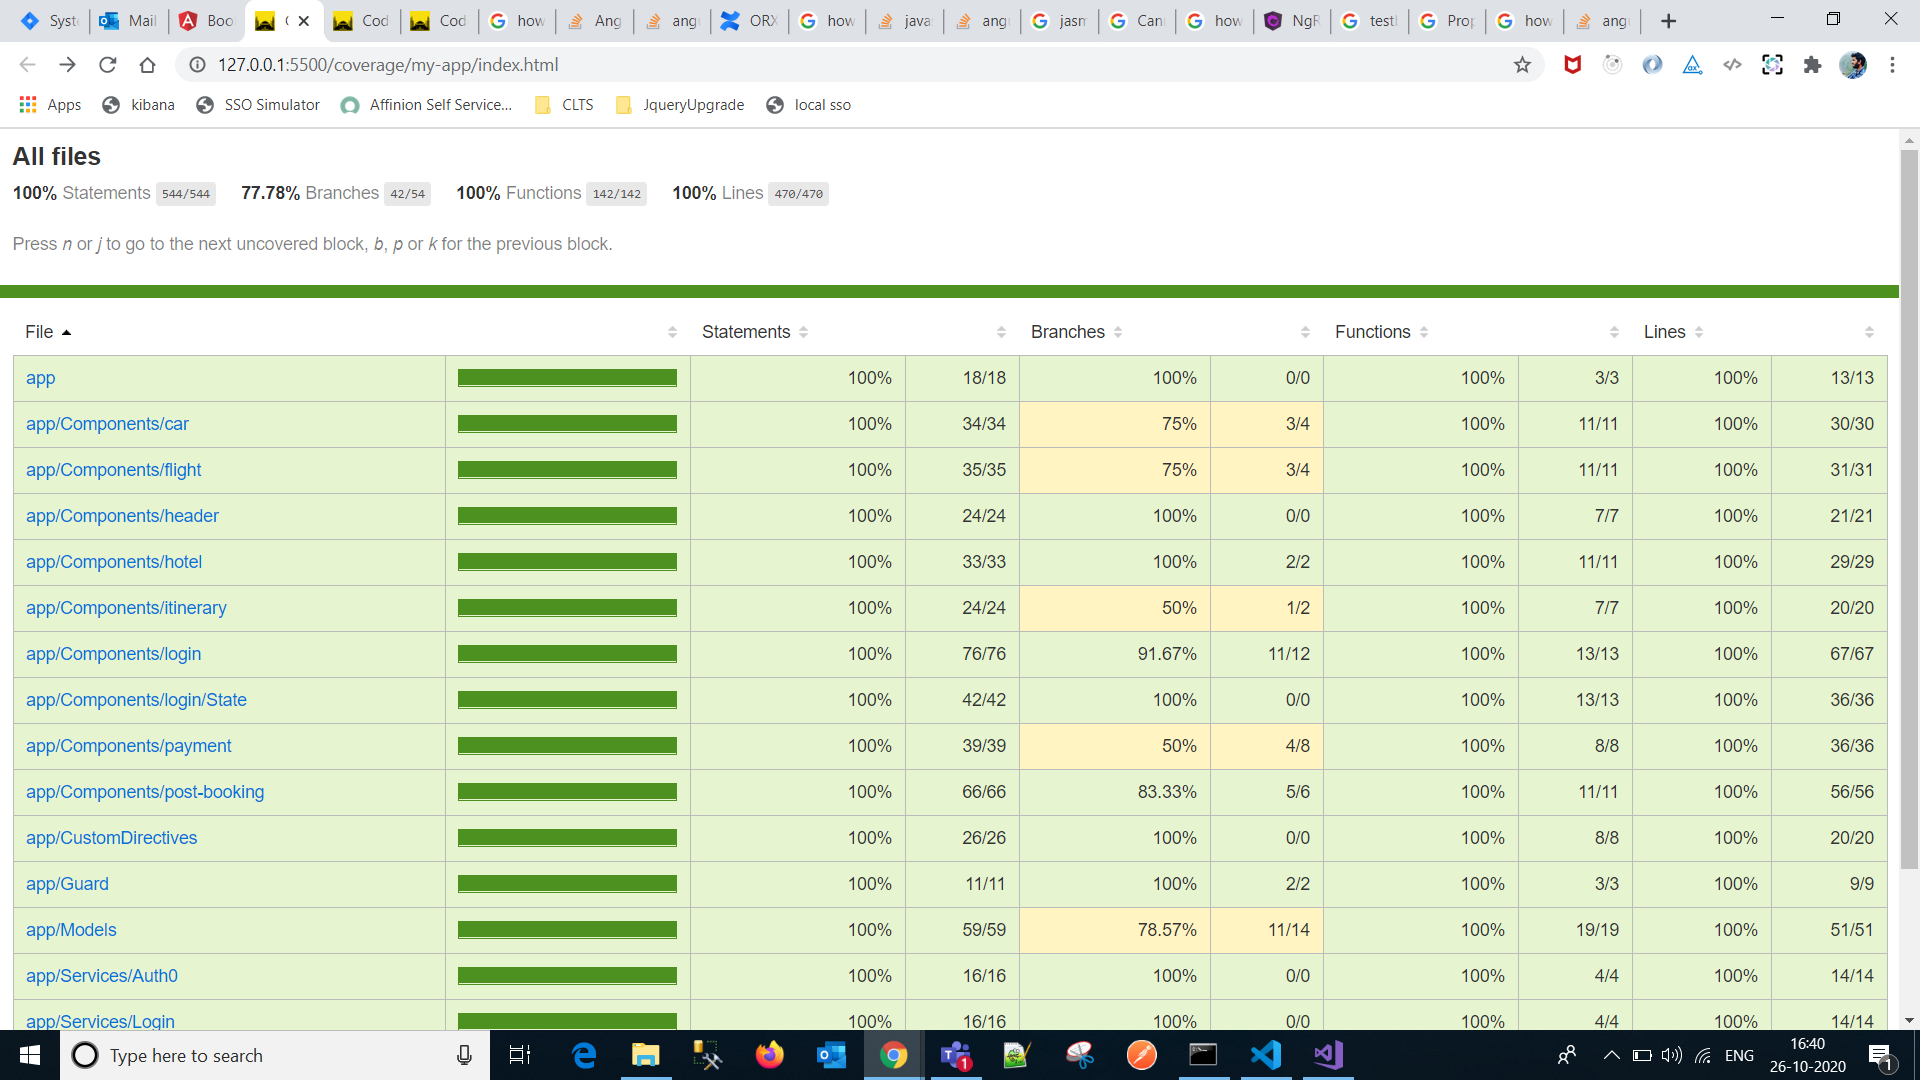
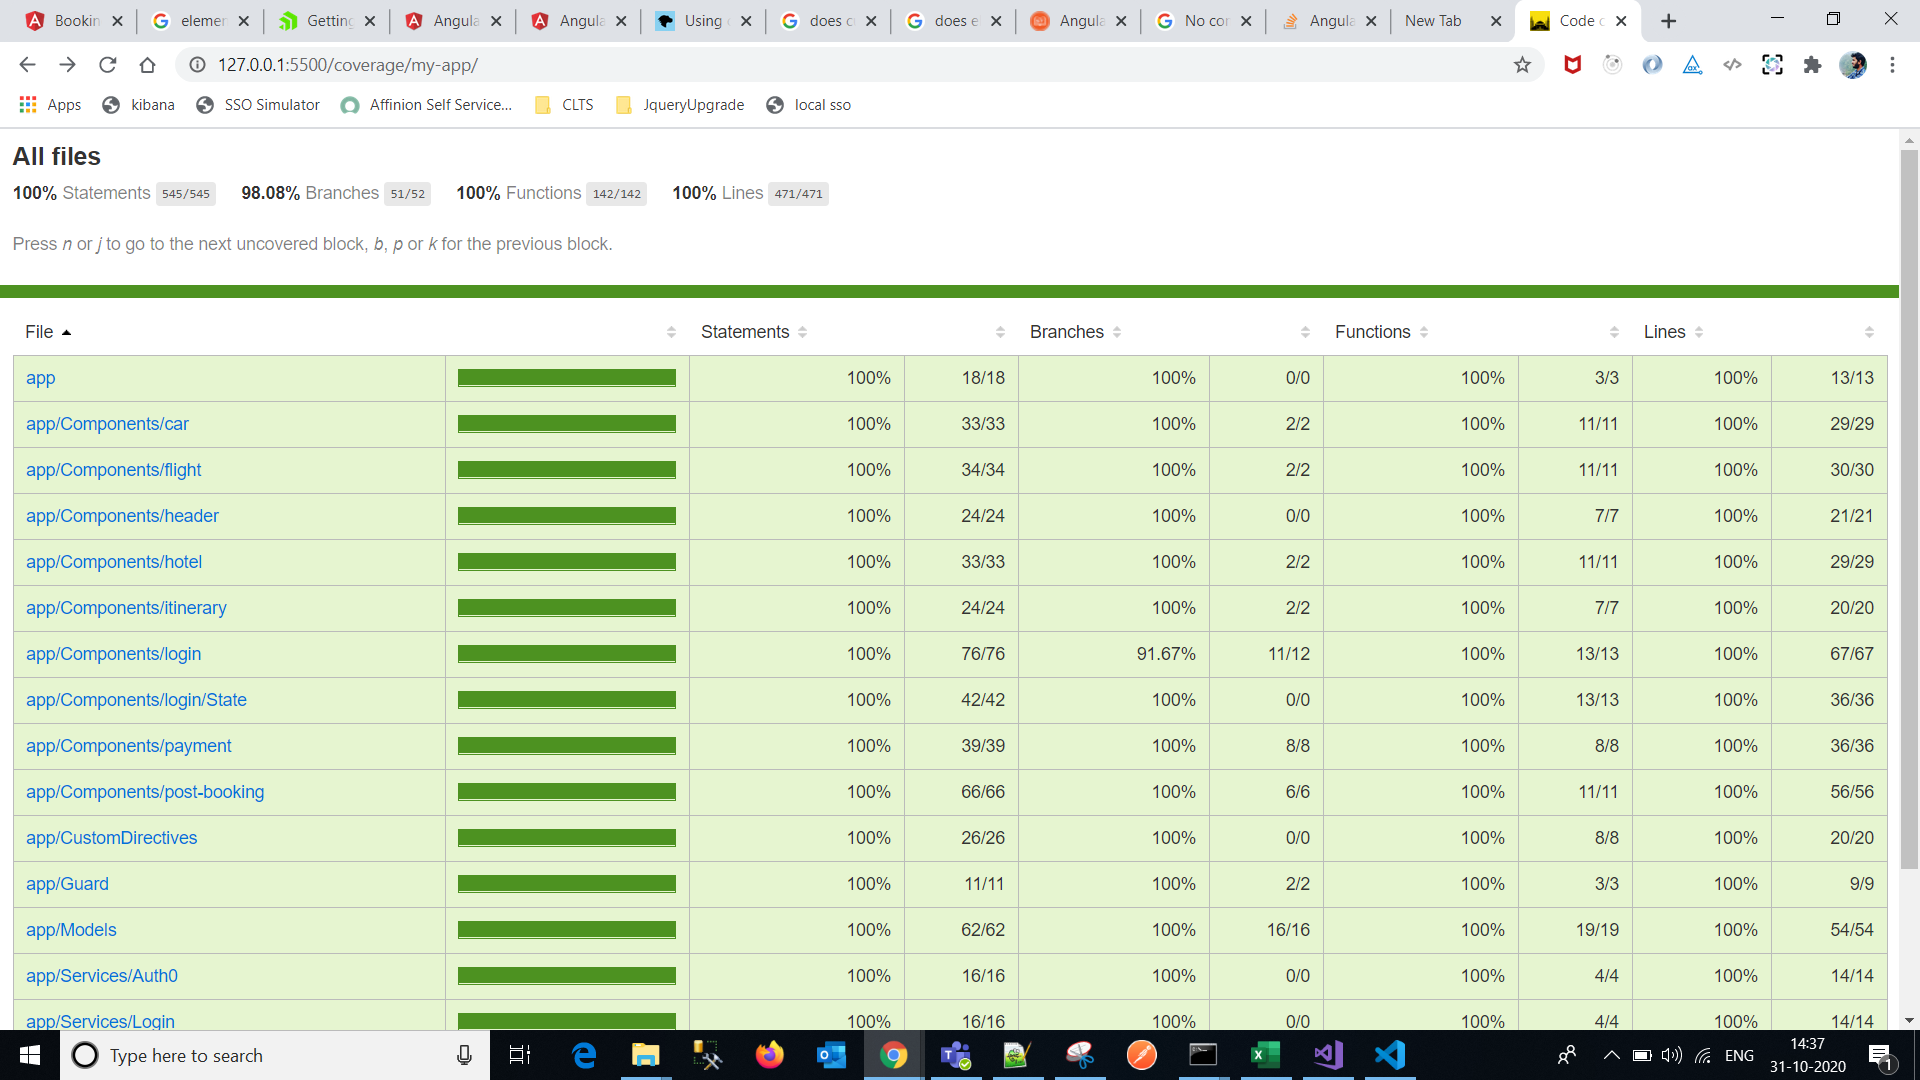
header custom element and branch coverage

diff --git a/BookingManager/src/app/Components/post-booking/post-booking.component.spec.ts b/BookingManager/src/app/Components/post-booking/post-booking.component.spec.ts
@@ -27,7 +27,7 @@ import { LoginEffects } from './../login/State/Login.Effects';
 import { LoginService } from 'src/app/Services/Login/login.service';
 import { AuthenticateUsers } from 'src/app/Models/Users';
 import { Profile } from 'src/app/Models/UserProfile';
-import {  Injectable } from '@angular/core';
+import {  CUSTOM_ELEMENTS_SCHEMA, Injectable } from '@angular/core';
 import {  inject } from '@angular/core/testing';
 import { AuthGuard } from 'src/app/Guard/auth.guard';
 import {Directive, Input, ElementRef, Renderer2, HostListener } from '@angular/core';
@@ -70,7 +70,8 @@ describe('PostBookingComponent', () => {
             
           }),
           EffectsModule.forRoot([LoginEffects])],
-        providers: [LoginService,{provide: APP_BASE_HREF, useValue : '/' }]
+        providers: [LoginService,{provide: APP_BASE_HREF, useValue : '/' }],
+        schemas:[CUSTOM_ELEMENTS_SCHEMA]
       })
       .compileComponents();
     }));
@@ -95,9 +96,9 @@ describe('PostBookingComponent', () => {
         localStorage.setItem('TokenManager','fool');
         component.activatedRoute.snapshot.fragment=null;
         component.ngOnInit();
-        const element = fixture.nativeElement;
-      
-        expect(localStorage.getItem('TokenManager')).toEqual('fool');
+        localStorage.setItem('TokenManager','bnaveen');
+        component.ngOnInit();
+        expect(localStorage.getItem('TokenManager')).toEqual('bnaveen');
     });
     it('should check view itineray', () => {
         const element = fixture.nativeElement;
@@ -111,11 +112,16 @@ describe('PostBookingComponent', () => {
       const element = fixture.nativeElement;
       var profile=new Profile();
       profile.email="bnaveen@tavisca.com";
+      var profile2=new Profile();
+      profile2.email="vamsi@tavisca.com";
+      component.AllUsers.AddUser(profile2);
       component.AllUsers.AddUser(profile);
-      if(!component.AllUsers.CheckUser(profile.email)){
-        var _user=component.AllUsers.getUser(profile.email)
+      component.AllUsers.AddUser(profile);
+      if(!component.AllUsers.CheckUser("xxx@gmail.com")){
+        var _user=component.AllUsers.getUser("xxx@gmail.com");
+        _user=component.AllUsers.getUser(profile.email);
       }
-    expect(component.AllUsers.GetAllUsers().length).toEqual(1);
+    expect(component.AllUsers.GetAllUsers().length).toEqual(2);
   });
   it('should test unauthorized', () => {
     localStorage.clear();

diff --git a/BookingManager/src/app/Components/payment/payment.component.spec.ts b/BookingManager/src/app/Components/payment/payment.component.spec.ts
@@ -33,6 +33,7 @@ import { LoginReducer } from '../login/State/Login.Reducer';
 import { StoreDevtoolsModule } from '@ngrx/store-devtools';
 import { EffectsModule } from '@ngrx/effects';
 import { LoginEffects } from '../login/State/Login.Effects';
+import { CUSTOM_ELEMENTS_SCHEMA } from '@angular/core';
 
 
 
@@ -64,7 +65,8 @@ describe('PaymentComponent', () => {
             
           }),
           EffectsModule.forRoot([LoginEffects])],
-        providers: [{provide: APP_BASE_HREF, useValue : '/' }]
+        providers: [{provide: APP_BASE_HREF, useValue : '/' }],
+        schemas:[CUSTOM_ELEMENTS_SCHEMA]
       })
       .compileComponents();
     }));
@@ -72,6 +74,8 @@ describe('PaymentComponent', () => {
         localStorage.setItem('TokenManager','bnaveen@tavisca.com');
         fixture = TestBed.createComponent(PaymentComponent);
         component = fixture.componentInstance;
+        
+        
         component._Cancel="1";
         let _car =new Car;
         let _flight =new Flight;
@@ -109,7 +113,7 @@ describe('PaymentComponent', () => {
         
         var _trip = new Trip;
         _trip.id = "12345";
-        _trip.flight=_flight;
+        _trip.flight=null;
         _trip.hotel=[_hotel];
         _trip.car=[_car];
         _trip.bookedDate='01-10-2020';
@@ -117,6 +121,11 @@ describe('PaymentComponent', () => {
 
         component.trip=_trip;
         component.Trip=component.trip;
+        component.ngOnInit();
+        _trip.flight=_flight;
+        component.trip=_trip;
+        component.Trip=component.trip;
+
         
         fixture.detectChanges();
       });
@@ -130,4 +139,12 @@ describe('PaymentComponent', () => {
       
         expect(component.TotalAmount).toEqual('1400');
     });
+    it('should test confirm case', () => {
+      component.Trip.flight.status=FlightStatus.Confirm;
+      component.Trip.car[0].status=IndiviualStatus.Confirm;
+      component.Trip.hotel[0].status=IndiviualStatus.Confirm;
+      component.ngOnInit();
+
+      expect(component.TotalAmount).toEqual('1400');
+  });
 });

diff --git a/BookingManager/src/app/Components/itinerary/itneray.component.spec.ts b/BookingManager/src/app/Components/itinerary/itneray.component.spec.ts
@@ -39,6 +39,7 @@ import { LoginEffects } from '../login/State/Login.Effects';
 import { TripserviceService } from 'src/app/Services/TripService/tripservice.service';
 import { Observable, of, throwError } from 'rxjs';
 import { inject } from '@angular/core/testing';
+import { CUSTOM_ELEMENTS_SCHEMA } from '@angular/core';
 
 
 describe('ItineraryComponent', () => {
@@ -70,14 +71,15 @@ describe('ItineraryComponent', () => {
             
           }),
           EffectsModule.forRoot([LoginEffects])],
-        providers: [{provide: APP_BASE_HREF, useValue : '/' }]
+        providers: [{provide: APP_BASE_HREF, useValue : '/' }],
+        schemas:[CUSTOM_ELEMENTS_SCHEMA]
       })
       .compileComponents();
     }));
     beforeEach(inject([TripserviceService],s => {
         _tripService=s;
         localStorage.setItem('TokenManager','bnaveen@tavisca.com');
-        localStorage.setItem('TripId','12345');
+        
         fixture = TestBed.createComponent(ItineraryComponent);
         component = fixture.componentInstance;
         
@@ -131,6 +133,8 @@ describe('ItineraryComponent', () => {
         spyOn(_tripService,'GetAllTrips').and.returnValue(of(response));
         
         component.ngOnInit();
+        localStorage.setItem('TripId','12345');
+        component.ngOnInit();
         tick(1000);
         // jasmine.clock().tick(1000);
       expect(component.trip.flight.pnr).toEqual("PLMNJ");
@@ -138,7 +142,7 @@ describe('ItineraryComponent', () => {
     }));
     it('should test error while getting trips',()=>{
         component.NoTrip=false;
-        
+        component.ngOnInit();
         spyOn(_tripService,'GetAllTrips').and.returnValue((throwError({status: 404})));
         
         component.ngOnInit();

diff --git a/BookingManager/src/app/app.module.ts b/BookingManager/src/app/app.module.ts
@@ -1,5 +1,5 @@
 import { BrowserModule } from '@angular/platform-browser';
-import { NgModule } from '@angular/core';
+import { CUSTOM_ELEMENTS_SCHEMA, Injector, NgModule } from '@angular/core';
 import { FormsModule,ReactiveFormsModule } from '@angular/forms';
 import { AppRoutingModule } from './app-routing.module';
 import { AppComponent } from './app.component';
@@ -22,6 +22,8 @@ import { LoginReducer } from './Components/login/State/Login.Reducer';
 import {StoreDevtoolsModule} from '@ngrx/store-devtools';
 import { EffectsModule } from '@ngrx/effects';
 import { LoginEffects } from './Components/login/State/Login.Effects';
+import { createCustomElement } from '@angular/elements';
+import './Litelements/Footer-LitElement';
 @NgModule({
   declarations: [
     AppComponent,
@@ -49,6 +51,13 @@ import { LoginEffects } from './Components/login/State/Login.Effects';
     EffectsModule.forRoot([LoginEffects])
   ],
   providers: [AuthGuard],
-  bootstrap: [AppComponent]
+  bootstrap: [AppComponent],
+  entryComponents:[HeaderComponent],
+  schemas:[CUSTOM_ELEMENTS_SCHEMA]
 })
-export class AppModule { }
+export class AppModule { 
+  constructor(private injector: Injector) {
+    const customElement = createCustomElement(HeaderComponent, { injector });
+    customElements.define('app-header-element', customElement);
+  }
+}

diff --git a/BookingManager/src/app/Components/header/header.component.spec.ts b/BookingManager/src/app/Components/header/header.component.spec.ts
@@ -25,6 +25,8 @@ import { LoginReducer } from '../login/State/Login.Reducer';
 import { StoreDevtoolsModule } from '@ngrx/store-devtools';
 import { LoginEffects } from '../login/State/Login.Effects';
 import { EffectsModule } from '@ngrx/effects';
+import { CUSTOM_ELEMENTS_SCHEMA } from '@angular/core';
+import { Profile } from 'src/app/Models/UserProfile';
 describe('HeaderComponent', () => {
     let component: HeaderComponent;
     let fixture: ComponentFixture<HeaderComponent>;
@@ -53,7 +55,8 @@ describe('HeaderComponent', () => {
             
           }),
           EffectsModule.forRoot([LoginEffects])],
-        providers: [{provide: APP_BASE_HREF, useValue : '/' }]
+        providers: [{provide: APP_BASE_HREF, useValue : '/' }],
+        schemas:[CUSTOM_ELEMENTS_SCHEMA]
       })
       .compileComponents();
     }));
@@ -81,7 +84,11 @@ describe('HeaderComponent', () => {
         localStorage.setItem('Name','naveen');
         component.ngOnInit();
         component.home();
-        var x = component.userdata;
+        var _profile=new Profile();
+        _profile.email="bnaveen@tavisca.com";
+        component.UserData=_profile;
+        component.userdata=_profile;
+        component.UserData = component.userdata;
         expect(localStorage.getItem('Name')).toEqual("naveen");
         
     });

diff --git a/BookingManager/src/app/Components/login/login.component.spec.ts b/BookingManager/src/app/Components/login/login.component.spec.ts
@@ -29,6 +29,7 @@ import { LoginService } from 'src/app/Services/Login/login.service';
 import { of, throwError } from 'rxjs';
 import { Profile } from 'src/app/Models/UserProfile';
 import { AuthenticateUsers } from 'src/app/Models/Users';
+import { CUSTOM_ELEMENTS_SCHEMA } from '@angular/core';
 
 describe('LoginComponent', () => {
   let component: LoginComponent;
@@ -58,7 +59,8 @@ describe('LoginComponent', () => {
           
         }),
         EffectsModule.forRoot([LoginEffects])],
-      providers: [{provide: APP_BASE_HREF, useValue : '/' }]
+      providers: [{provide: APP_BASE_HREF, useValue : '/' }],
+      schemas:[CUSTOM_ELEMENTS_SCHEMA]
     })
     .compileComponents();
   }));
@@ -112,6 +114,10 @@ describe('LoginComponent', () => {
     let profiles= new Array<Profile>();
     var profile =new Profile();
     profile.email="bnaveen@tavisca.com";
+    
+    var profile2=new Profile();
+    profile2.email="vamsi@tavisca.com";
+    profiles.push(profile2);
     profiles.push(profile);
     spyOn(_loginService,'GetAllUsers').and.returnValue(of(profiles));
     var _authenticateUsersobject = new AuthenticateUsers(_loginService);

diff --git a/BookingManager/src/app/Models/Users.ts b/BookingManager/src/app/Models/Users.ts
@@ -22,21 +22,36 @@ export class AuthenticateUsers{
     AddUser(newuser:Profile){
         if(!this.CheckUser(newuser.email))
             this.Users.push(newuser);
+        else{
+
+        }
     }
     getUser(email:string):Profile{
         this.Users.forEach(user => {
             if(user.email == email){
                 return user;
             }
+            else{
+
+            }
         })
         return null;
     }
     CheckUser(email:string):boolean{
+        let temp=0;
         this.Users.forEach(user => {
             if(user.email.toLowerCase() == email.toLowerCase()){
-                return true;
+                temp=1;
+                
+            }
+            else{
+
             }
         })
+        if(temp==1){
+            return true;
+        }
+        else
         return false;
     }
     GetAllUsers():Array<Profile>{

diff --git a/BookingManager/src/app/app.component.spec.ts b/BookingManager/src/app/app.component.spec.ts
@@ -1,7 +1,7 @@
 import { async, ComponentFixture, TestBed } from '@angular/core/testing';
 
 import { BrowserModule } from '@angular/platform-browser';
-import { NgModule } from '@angular/core';
+import { CUSTOM_ELEMENTS_SCHEMA, NgModule } from '@angular/core';
 import { FormsModule,ReactiveFormsModule } from '@angular/forms';
 import { AppRoutingModule } from './app-routing.module';
 import { AppComponent } from './app.component';
@@ -41,6 +41,8 @@ describe('AppComponent', () => {
           HttpClientModule,NgxSpinnerModule,
           CommonModule,ReactiveFormsModule],
         providers: [{provide: APP_BASE_HREF, useValue : '/' }]
+        ,
+  schemas:[CUSTOM_ELEMENTS_SCHEMA]
       })
       .compileComponents();
     }));

diff --git a/BookingManager/src/app/Components/hotel/hotel.component.spec.ts b/BookingManager/src/app/Components/hotel/hotel.component.spec.ts
@@ -33,6 +33,7 @@ import { LoginEffects } from '../login/State/Login.Effects';
 import { EffectsModule } from '@ngrx/effects';
 import { TripserviceService } from 'src/app/Services/TripService/tripservice.service';
 import { of } from 'rxjs';
+import { CUSTOM_ELEMENTS_SCHEMA } from '@angular/core';
 
 describe('HotelComponent', () => {
     let component: HotelComponent;
@@ -62,7 +63,8 @@ describe('HotelComponent', () => {
             
           }),
           EffectsModule.forRoot([LoginEffects])],
-        providers: [{provide: APP_BASE_HREF, useValue : '/' }]
+        providers: [{provide: APP_BASE_HREF, useValue : '/' }],
+        schemas:[CUSTOM_ELEMENTS_SCHEMA]
       })
       .compileComponents();
     }));

diff --git a/BookingManager/src/app/Components/car/car.component.spec.ts b/BookingManager/src/app/Components/car/car.component.spec.ts
@@ -30,6 +30,7 @@ import { LoginEffects } from '../login/State/Login.Effects';
 import { EffectsModule } from '@ngrx/effects';
 import { of } from 'rxjs';
 import { TripserviceService } from 'src/app/Services/TripService/tripservice.service';
+import { CUSTOM_ELEMENTS_SCHEMA } from '@angular/core';
 
 describe('CarComponent', () => {
     let component: CarComponent;
@@ -60,7 +61,8 @@ describe('CarComponent', () => {
             
           }),
           EffectsModule.forRoot([LoginEffects])],
-        providers: [{provide: APP_BASE_HREF, useValue : '/' }]
+        providers: [{provide: APP_BASE_HREF, useValue : '/' }],
+        schemas:[CUSTOM_ELEMENTS_SCHEMA]
       })
       .compileComponents();
     }));

diff --git a/BookingManager/src/app/Components/flight/flight.component.spec.ts b/BookingManager/src/app/Components/flight/flight.component.spec.ts
@@ -36,6 +36,7 @@ import { EffectsModule } from '@ngrx/effects';
 import { TripserviceService } from 'src/app/Services/TripService/tripservice.service';
 import { inject } from '@angular/core/testing';
 import { of } from 'rxjs';
+import { CUSTOM_ELEMENTS_SCHEMA } from '@angular/core';
 
 describe('FlightComponent', () => {
     let component: FlightComponent;
@@ -66,7 +67,8 @@ describe('FlightComponent', () => {
             
           }),
           EffectsModule.forRoot([LoginEffects])],
-        providers: [{provide: APP_BASE_HREF, useValue : '/' }]
+        providers: [{provide: APP_BASE_HREF, useValue : '/' }],
+        schemas:[CUSTOM_ELEMENTS_SCHEMA]
       })
       .compileComponents();
     }));

diff --git a/BookingManager/src/app/Components/payment/payment.component.ts b/BookingManager/src/app/Components/payment/payment.component.ts
@@ -42,6 +42,12 @@ export class PaymentComponent implements OnInit {
         this.CancelComponent=true;
         refund+=(Number(this.Trip.flight.cost)-Number(this.Trip.flight.discount));
       }
+      else{
+        
+      }
+    }
+    else{
+
     }
     this.Trip.hotel.forEach( hotel =>{
       amount+=(Number(hotel.cost)-Number(hotel.discount));
@@ -64,6 +70,9 @@ export class PaymentComponent implements OnInit {
         this.CancelComponent=true;
         this.TotalCancelledComponents+=1;
         //console.log("car cancel"+car.Id);
+      }
+      else{
+
       }
        
     }
